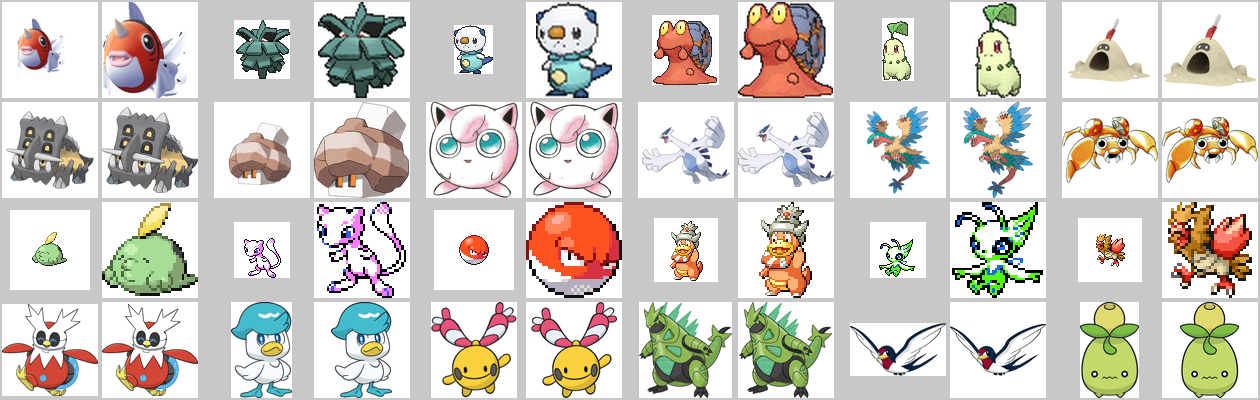
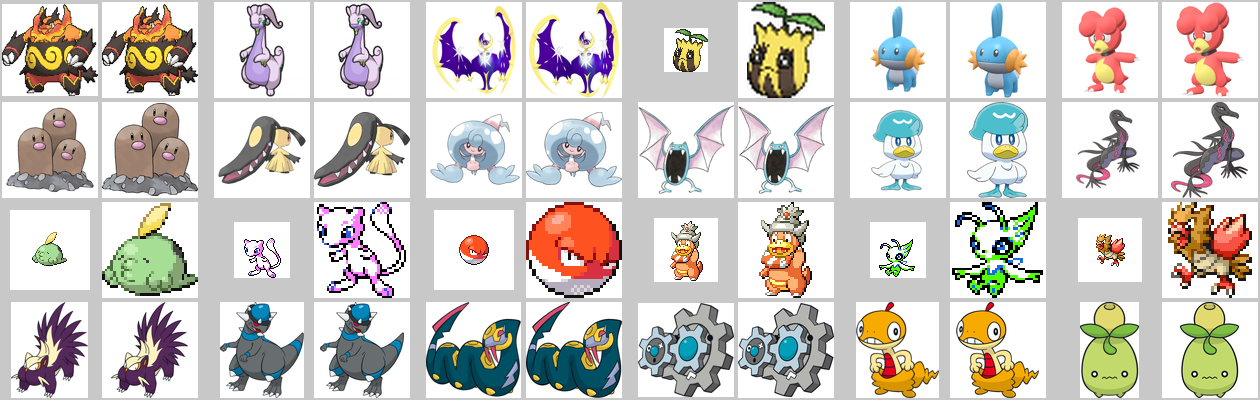
Keep all Mega and Primal forms as their own entries

diff --git a/scripts/build_manifest.py b/scripts/build_manifest.py
@@ -174,12 +174,15 @@ def pokemon_table(t):
     forms = t["pokemon_forms"].sort_values(["pokemon_id", "is_default"], ascending=[True, False])
     intro = forms.drop_duplicates("pokemon_id").set_index("pokemon_id")["introduced_in_version_group_id"]
     pk["form_debut_order"] = pk["pokemon_id"].map(intro).map(vg_order)
-    # Keep one form per distinct typing within a species: the default form, then the
-    # earliest form with each new typing (regional forms, Rotom, type-changing megas).
-    # Same-typed variants (G-Max, totems, costumes, same-type megas) are dropped.
+    # Keep every Mega/Primal form, each as its own entry with its own typing. Among the
+    # other forms, keep one per distinct typing within a species: the default form, then
+    # the earliest form with each new typing (regional forms, Rotom, Wormadam, ...).
+    # Same-typed variants (G-Max, totems, costumes) are dropped.
+    is_mega = forms.drop_duplicates("pokemon_id").set_index("pokemon_id")["is_mega"].astype(bool)
+    pk["is_mega"] = pk["pokemon_id"].map(is_mega).fillna(False) | pk["pokemon_name"].str.endswith("-primal")
     pk["_types"] = pk[["type1", "type2"]].apply(lambda r: frozenset(r.dropna()), axis=1)
-    order = pk.sort_values(["species_id", "is_default", "pokemon_id"], ascending=[True, False, True])
-    pk["keep_form"] = ~order.duplicated(["species_id", "_types"])  # aligns back on index
+    rest = pk[~pk["is_mega"]].sort_values(["species_id", "is_default", "pokemon_id"], ascending=[True, False, True])
+    pk["keep_form"] = pk["is_mega"] | ~rest.duplicated(["species_id", "_types"]).reindex(pk.index, fill_value=True)
     return pk.drop(columns="_types")
 
 
@@ -293,7 +296,7 @@ def main():
         ("back view", lambda d: d["view"] == "back"),
         ("low-fidelity or unofficial source (icons, Showdown, top-level defaults)",
          lambda d: d["medium"].isin(EXCLUDED_MEDIA)),
-        ("form with the same typing as another kept form of its species", lambda d: ~d["keep_form"]),
+        ("non-Mega form with the same typing as another kept form of its species", lambda d: ~d["keep_form"]),
         ("unofficial: form introduced after the game",
          lambda d: game_order[d.index].notna() & (d["form_debut_order"] > game_order[d.index])),
     ]:
@@ -379,7 +382,7 @@ def write_report(m, species, unknown_ids, dropped, val_score, args):
         top = d["game"].value_counts().head(6)
         lines.append(f"| {reason} | {len(d)} | " + ", ".join(f"{g} {n}" for g, n in top.items()) + " |")
     alt = m.loc[~m["is_default_form"]].drop_duplicates("pokemon_id").sort_values("pokemon_id")
-    lines.append(f"\nAlternate forms kept (one per distinct typing within a species): {len(alt)}. "
+    lines.append(f"\nAlternate forms kept (all Megas/Primals, plus one per distinct typing within a species): {len(alt)}. "
                  + ", ".join(f"{r.pokemon_name} ({r.type1}{'/' + r.type2 if pd.notna(r.type2) else ''})"
                              for r in alt.itertuples()))
 

diff --git a/reports/manifest_report.md b/reports/manifest_report.md
@@ -22,18 +22,18 @@ Rows dropped, applied in order:
 |---|---|---|
 | back view | 25827 | default 2891, black-white 2891, ultra-sun-ultra-moon 2116, scarlet-violet 1892, omega-ruby-alpha-sapphire 1818, x-y 1764 |
 | low-fidelity or unofficial source (icons, Showdown, top-level defaults) | 13260 | default 2892, showdown 2770, generation-viii-icons 1113, generation-vii-icons 974, scarlet-violet-icons 946, sword-shield-icons 849 |
-| form with the same typing as another kept form of its species | 2265 | black-white 427, official-artwork 426, home 401, ultra-sun-ultra-moon 218, champions 162, sword-shield 148 |
-| unofficial: form introduced after the game | 947 | black-white 947 |
+| non-Mega form with the same typing as another kept form of its species | 1438 | official-artwork 271, black-white 270, home 243, sword-shield 148, scarlet-violet 144, ultra-sun-ultra-moon 140 |
+| unofficial: form introduced after the game | 1104 | black-white 1104 |
 
-Alternate forms kept (one per distinct typing within a species): 106. wormadam-sandy (bug/ground), wormadam-trash (bug/steel), shaymin-sky (grass/flying), rotom-heat (electric/fire), rotom-wash (electric/water), rotom-frost (electric/ice), rotom-fan (electric/flying), rotom-mow (electric/grass), castform-sunny (fire), castform-rainy (water), castform-snowy (ice), darmanitan-zen (fire/psychic), meloetta-pirouette (normal/fighting), charizard-mega-x (fire/dragon), pinsir-mega (bug/flying), gyarados-mega (water/dark), mewtwo-mega-x (psychic/fighting), ampharos-mega (electric/dragon), aggron-mega (steel), sceptile-mega (grass/dragon), altaria-mega (dragon/fairy), audino-mega (normal/fairy), groudon-primal (ground/fire), hoopa-unbound (psychic/dark), lopunny-mega (normal/fighting), rattata-alola (dark/normal), raticate-alola (dark/normal), raichu-alola (electric/psychic), sandshrew-alola (ice/steel), sandslash-alola (ice/steel), vulpix-alola (ice), ninetales-alola (ice/fairy), diglett-alola (ground/steel), dugtrio-alola (ground/steel), meowth-alola (dark), persian-alola (dark), geodude-alola (rock/electric), graveler-alola (rock/electric), golem-alola (rock/electric), grimer-alola (poison/dark), muk-alola (poison/dark), exeggutor-alola (grass/dragon), marowak-alola (fire/ghost), oricorio-pom-pom (electric/flying), oricorio-pau (psychic/flying), oricorio-sensu (ghost/flying), necrozma-dusk (psychic/steel), necrozma-dawn (psychic/ghost), necrozma-ultra (psychic/dragon), meowth-galar (steel), ponyta-galar (psychic), rapidash-galar (psychic/fairy), slowpoke-galar (psychic), slowbro-galar (poison/psychic), farfetchd-galar (fighting), weezing-galar (poison/fairy), mr-mime-galar (ice/psychic), articuno-galar (psychic/flying), zapdos-galar (fighting/flying), moltres-galar (dark/flying), slowking-galar (poison/psychic), corsola-galar (ghost), zigzagoon-galar (dark/normal), linoone-galar (dark/normal), darumaka-galar (ice), darmanitan-galar-standard (ice), darmanitan-galar-zen (ice/fire), yamask-galar (ground/ghost), stunfisk-galar (ground/steel), zacian-crowned (fairy/steel), zamazenta-crowned (fighting/steel), urshifu-rapid-strike (fighting/water), calyrex-ice (psychic/ice), calyrex-shadow (psychic/ghost), growlithe-hisui (fire/rock), arcanine-hisui (fire/rock), voltorb-hisui (electric/grass), electrode-hisui (electric/grass), typhlosion-hisui (fire/ghost), qwilfish-hisui (dark/poison), sneasel-hisui (fighting/poison), samurott-hisui (water/dark), lilligant-hisui (grass/fighting), zorua-hisui (normal/ghost), zoroark-hisui (normal/ghost), braviary-hisui (psychic/flying), sliggoo-hisui (steel/dragon), goodra-hisui (steel/dragon), avalugg-hisui (ice/rock), decidueye-hisui (grass/fighting), tauros-paldea-combat-breed (fighting), tauros-paldea-blaze-breed (fighting/fire), tauros-paldea-aqua-breed (fighting/water), wooper-paldea (poison/ground), ogerpon-wellspring-mask (grass/water), ogerpon-hearthflame-mask (grass/fire), ogerpon-cornerstone-mask (grass/rock), clefable-mega (fairy/flying), meganium-mega (grass/fairy), feraligatr-mega (water/dragon), barbaracle-mega (rock/fighting), chimecho-mega (psychic/steel), absol-mega-z (dark/ghost), staraptor-mega (fighting/flying), garchomp-mega-z (dragon), golisopod-mega (bug/steel)
+Alternate forms kept (all Megas/Primals, plus one per distinct typing within a species): 185. wormadam-sandy (bug/ground), wormadam-trash (bug/steel), shaymin-sky (grass/flying), rotom-heat (electric/fire), rotom-wash (electric/water), rotom-frost (electric/ice), rotom-fan (electric/flying), rotom-mow (electric/grass), castform-sunny (fire), castform-rainy (water), castform-snowy (ice), darmanitan-zen (fire/psychic), meloetta-pirouette (normal/fighting), venusaur-mega (grass/poison), charizard-mega-x (fire/dragon), charizard-mega-y (fire/flying), blastoise-mega (water), alakazam-mega (psychic), gengar-mega (ghost/poison), kangaskhan-mega (normal), pinsir-mega (bug/flying), gyarados-mega (water/dark), aerodactyl-mega (rock/flying), mewtwo-mega-x (psychic/fighting), mewtwo-mega-y (psychic), ampharos-mega (electric/dragon), scizor-mega (bug/steel), heracross-mega (bug/fighting), houndoom-mega (dark/fire), tyranitar-mega (rock/dark), blaziken-mega (fire/fighting), gardevoir-mega (psychic/fairy), mawile-mega (steel/fairy), aggron-mega (steel), medicham-mega (fighting/psychic), manectric-mega (electric), banette-mega (ghost), absol-mega (dark), garchomp-mega (dragon/ground), lucario-mega (fighting/steel), abomasnow-mega (grass/ice), latias-mega (dragon/psychic), latios-mega (dragon/psychic), swampert-mega (water/ground), sceptile-mega (grass/dragon), sableye-mega (dark/ghost), altaria-mega (dragon/fairy), gallade-mega (psychic/fighting), audino-mega (normal/fairy), sharpedo-mega (water/dark), slowbro-mega (water/psychic), steelix-mega (steel/ground), pidgeot-mega (normal/flying), glalie-mega (ice), diancie-mega (rock/fairy), metagross-mega (steel/psychic), kyogre-primal (water), groudon-primal (ground/fire), rayquaza-mega (dragon/flying), hoopa-unbound (psychic/dark), camerupt-mega (fire/ground), lopunny-mega (normal/fighting), salamence-mega (dragon/flying), beedrill-mega (bug/poison), rattata-alola (dark/normal), raticate-alola (dark/normal), raichu-alola (electric/psychic), sandshrew-alola (ice/steel), sandslash-alola (ice/steel), vulpix-alola (ice), ninetales-alola (ice/fairy), diglett-alola (ground/steel), dugtrio-alola (ground/steel), meowth-alola (dark), persian-alola (dark), geodude-alola (rock/electric), graveler-alola (rock/electric), golem-alola (rock/electric), grimer-alola (poison/dark), muk-alola (poison/dark), exeggutor-alola (grass/dragon), marowak-alola (fire/ghost), oricorio-pom-pom (electric/flying), oricorio-pau (psychic/flying), oricorio-sensu (ghost/flying), necrozma-dusk (psychic/steel), necrozma-dawn (psychic/ghost), necrozma-ultra (psychic/dragon), meowth-galar (steel), ponyta-galar (psychic), rapidash-galar (psychic/fairy), slowpoke-galar (psychic), slowbro-galar (poison/psychic), farfetchd-galar (fighting), weezing-galar (poison/fairy), mr-mime-galar (ice/psychic), articuno-galar (psychic/flying), zapdos-galar (fighting/flying), moltres-galar (dark/flying), slowking-galar (poison/psychic), corsola-galar (ghost), zigzagoon-galar (dark/normal), linoone-galar (dark/normal), darumaka-galar (ice), darmanitan-galar-standard (ice), darmanitan-galar-zen (ice/fire), yamask-galar (ground/ghost), stunfisk-galar (ground/steel), zacian-crowned (fairy/steel), zamazenta-crowned (fighting/steel), urshifu-rapid-strike (fighting/water), calyrex-ice (psychic/ice), calyrex-shadow (psychic/ghost), growlithe-hisui (fire/rock), arcanine-hisui (fire/rock), voltorb-hisui (electric/grass), electrode-hisui (electric/grass), typhlosion-hisui (fire/ghost), qwilfish-hisui (dark/poison), sneasel-hisui (fighting/poison), samurott-hisui (water/dark), lilligant-hisui (grass/fighting), zorua-hisui (normal/ghost), zoroark-hisui (normal/ghost), braviary-hisui (psychic/flying), sliggoo-hisui (steel/dragon), goodra-hisui (steel/dragon), avalugg-hisui (ice/rock), decidueye-hisui (grass/fighting), tauros-paldea-combat-breed (fighting), tauros-paldea-blaze-breed (fighting/fire), tauros-paldea-aqua-breed (fighting/water), wooper-paldea (poison/ground), ogerpon-wellspring-mask (grass/water), ogerpon-hearthflame-mask (grass/fire), ogerpon-cornerstone-mask (grass/rock), clefable-mega (fairy/flying), victreebel-mega (grass/poison), starmie-mega (water/psychic), dragonite-mega (dragon/flying), meganium-mega (grass/fairy), feraligatr-mega (water/dragon), skarmory-mega (steel/flying), froslass-mega (ice/ghost), emboar-mega (fire/fighting), excadrill-mega (ground/steel), scolipede-mega (bug/poison), scrafty-mega (dark/fighting), eelektross-mega (electric), chandelure-mega (ghost/fire), chesnaught-mega (grass/fighting), delphox-mega (fire/psychic), greninja-mega (water/dark), pyroar-mega (fire/normal), floette-mega (fairy), malamar-mega (dark/psychic), barbaracle-mega (rock/fighting), dragalge-mega (poison/dragon), hawlucha-mega (fighting/flying), zygarde-mega (dragon/ground), drampa-mega (normal/dragon), falinks-mega (fighting), raichu-mega-x (electric), raichu-mega-y (electric), chimecho-mega (psychic/steel), absol-mega-z (dark/ghost), staraptor-mega (fighting/flying), garchomp-mega-z (dragon), lucario-mega-z (fighting/steel), heatran-mega (fire/steel), darkrai-mega (dark), golurk-mega (ground/ghost), meowstic-male-mega (psychic), crabominable-mega (fighting/ice), golisopod-mega (bug/steel), magearna-mega (steel/fairy), magearna-original-mega (steel/fairy), zeraora-mega (electric), scovillain-mega (grass/fire), glimmora-mega (rock/poison), tatsugiri-curly-mega (dragon/water), tatsugiri-droopy-mega (dragon/water), tatsugiri-stretchy-mega (dragon/water), baxcalibur-mega (dragon/ice), meowstic-female-mega (psychic)
 
 ## Split sizes
 
 | split | families | species | forms | images | primary filter* |
 |---|---|---|---|---|---|
-| train | 389 | 726 | 807 | 20744 | 10280 |
-| val | 69 | 140 | 152 | 3944 | 1938 |
-| test | 82 | 156 | 169 | 2678 | 1409 |
+| train | 389 | 726 | 870 | 21292 | 10555 |
+| val | 69 | 140 | 161 | 4024 | 1978 |
+| test | 82 | 156 | 176 | 2720 | 1430 |
 | exclude | 3 | 3 | 3 | 33 | 17 |
 
 *front view, normal colors, not a duplicate.
@@ -46,8 +46,8 @@ BW-style sources (`bw_style`): black-white.
 
 | variant | train | val |
 |---|---|---|
-| with BW style | 10280 | 1938 |
-| without BW style | 9783 | 1840 |
+| with BW style | 10555 | 1978 |
+| without BW style | 10058 | 1880 |
 
 ## Type distribution per split (species, by default-form types)
 
@@ -78,21 +78,21 @@ Dual-typed share: train 52%, val 53%, test 47%
 
 | medium | train | val | test | exclude |
 |---|---|---|---|---|
-| 3d_render | 4968 | 935 | 917 | 13 |
-| illustration | 1149 | 212 | 169 | 3 |
+| 3d_render | 5177 | 966 | 931 | 13 |
+| illustration | 1212 | 221 | 176 | 3 |
 | pixel | 3481 | 659 | 161 | 0 |
-| vector | 682 | 132 | 162 | 1 |
+| vector | 685 | 132 | 162 | 1 |
 
 ## Images per species (train, primary filter)
 
 | debut gen | species | median imgs | min | max |
 |---|---|---|---|---|
-| 1 | 131 | 25 | 21 | 47 |
-| 2 | 80 | 18 | 16 | 33 |
+| 1 | 131 | 25 | 21 | 53 |
+| 2 | 80 | 18 | 16 | 39 |
 | 3 | 111 | 14 | 12 | 52 |
 | 4 | 91 | 14 | 12 | 85 |
-| 6 | 64 | 8 | 5 | 14 |
-| 7 | 81 | 5 | 3 | 20 |
+| 6 | 64 | 8 | 5 | 20 |
+| 7 | 81 | 6 | 3 | 20 |
 | 8 | 76 | 5 | 3 | 14 |
 | 9 | 92 | 4 | 4 | 15 |
 
@@ -100,4 +100,4 @@ Dual-typed share: train 52%, val 53%, test 47%
 
 | flag | rows |
 |---|---|
-| champions | 544 |
+| champions | 672 |
